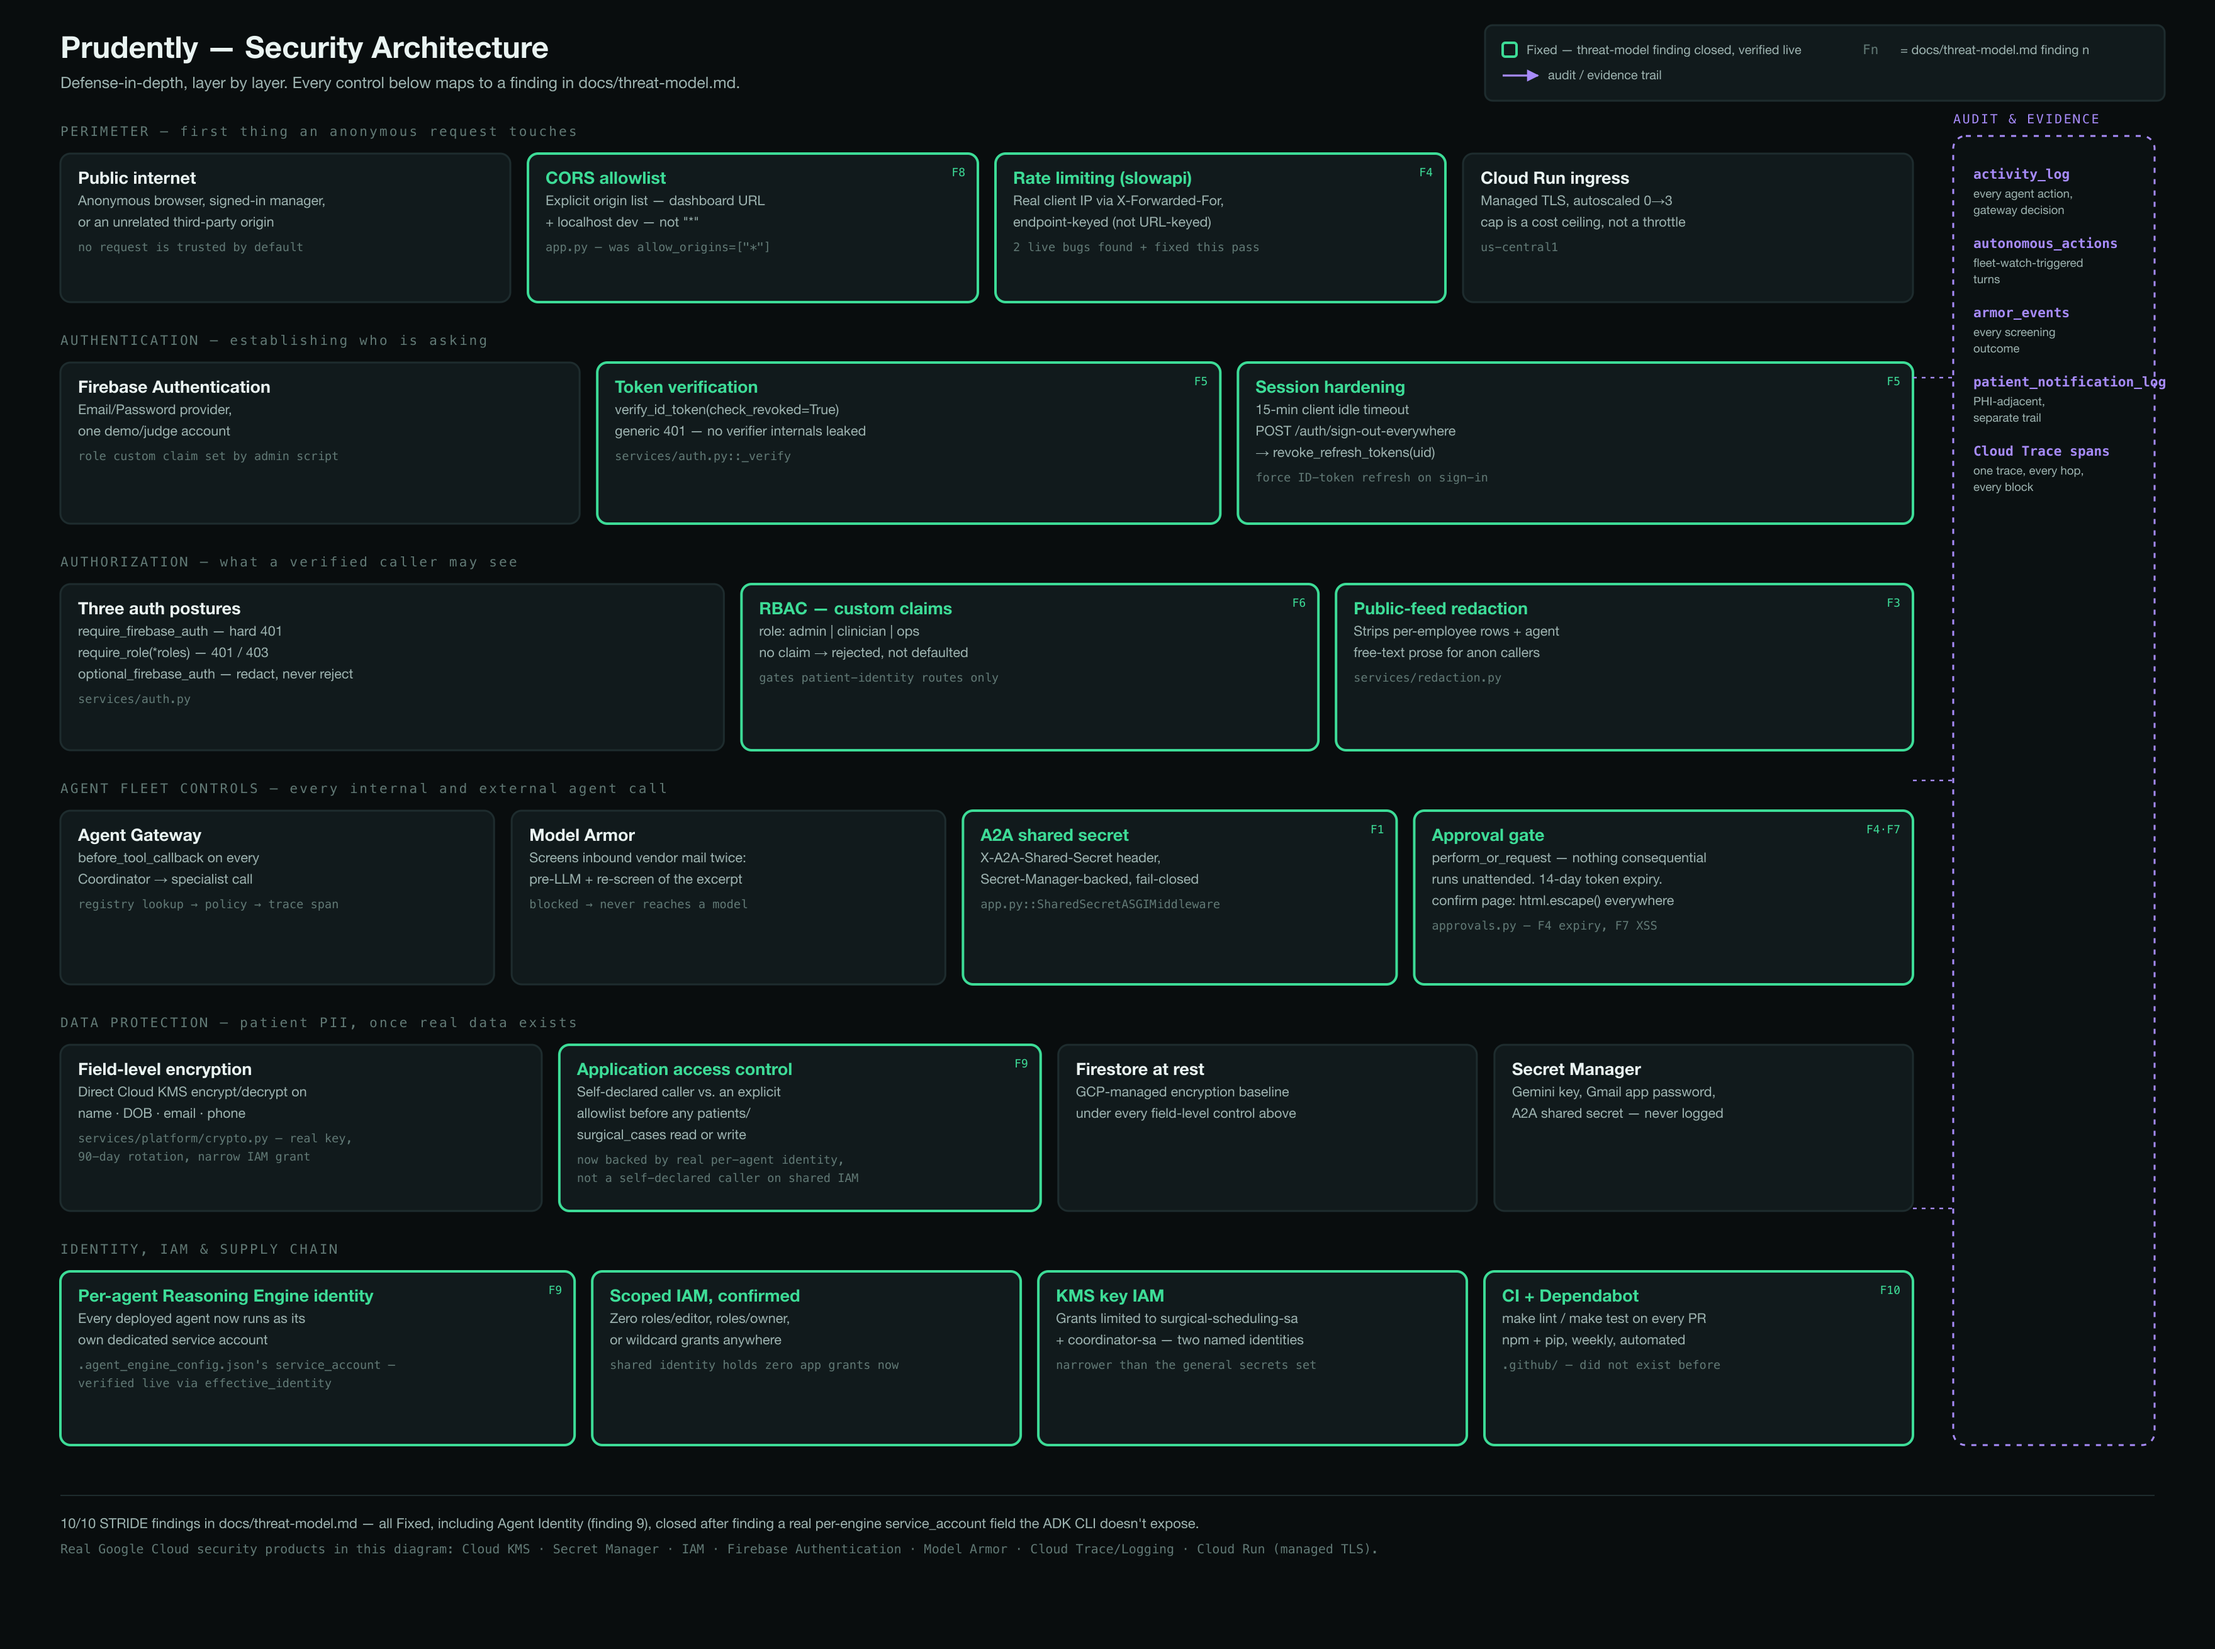
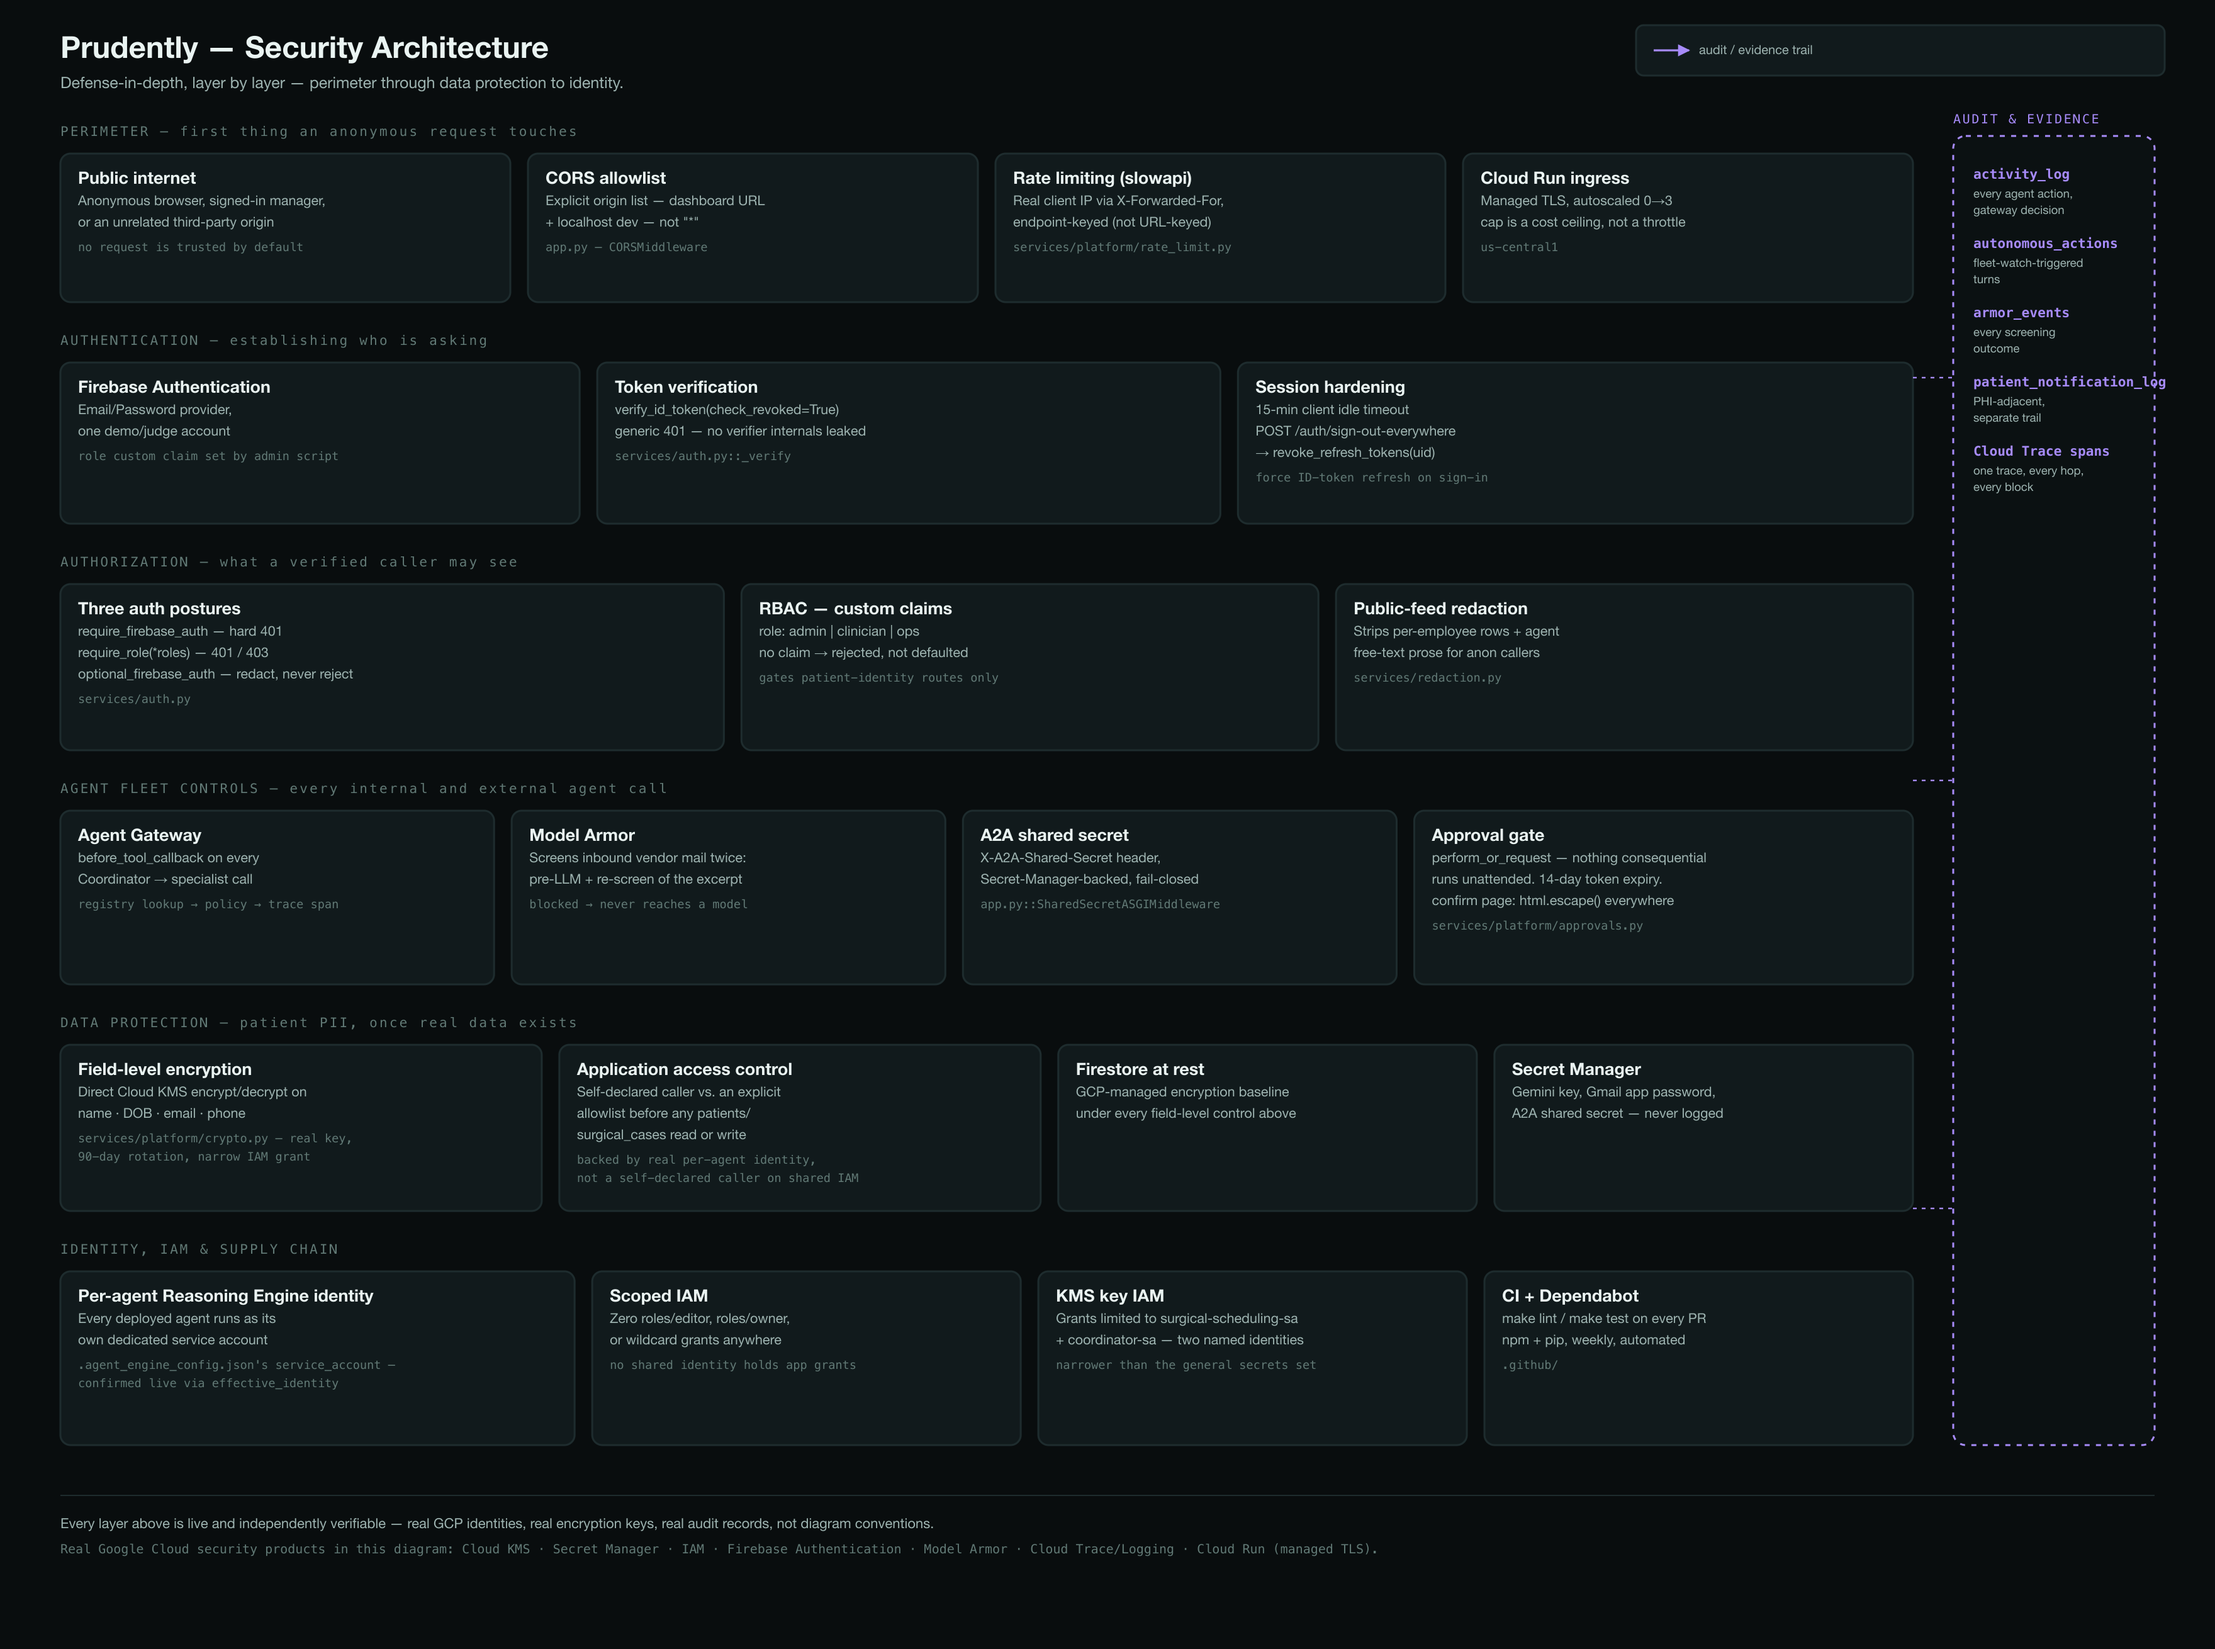
Remove the standalone threat-model doc; de-status the security diagram
Every diagram (and every doc that linked to it) drops the
"Fixed"/"Mitigated"/"Accepted" framing that was built around the
now-removed document.

The security architecture diagram loses the per-card status badges,
the legend entries explaining them, the per-card accent borders that
existed only to encode status, and the closing findings-count line.
Cards read as a plain inventory of what each control is and does now
— the same visual language as the other two diagrams, neither of which
ever used status coloring. The main architecture diagram's one
remaining reference (a disclosure line citing a specific finding
number) is reworded to state the underlying fact directly — every
engine runs under its own identity — without citing a file that no
longer exists.

The README and other docs had their direct mentions and links to the
removed file taken out the same way: every surrounding factual claim
stays (encryption, RBAC, per-agent identity, KMS grants scoped to two
service accounts) — only the citation to the deleted file is gone, not
the substance it was citing.

Also swept two stray, gitignored temp folders left over from earlier
deploy retries.

diff --git a/README.md b/README.md
@@ -12,8 +12,8 @@ it left it, and wakes the responsible agent the moment something crosses a line.
 real-world consequence still comes back to a human for approval. The one domain here with
 real-PII-shaped data — a patient's name, date of birth, contact details — is encrypted
 field-by-field with Cloud KMS before it ever reaches Firestore, gated behind role-based access
-control, and backed by a real, cited threat model that maps every finding to the fix that closed
-it (`docs/threat-model.md`).
+control, with every deployed agent running under its own dedicated identity rather than a
+shared one.
 
 **Live:**
 [dashboard](https://prudently-web-jnpvbtwpwa-uc.a.run.app) ·
@@ -23,11 +23,6 @@ it (`docs/threat-model.md`).
 [topology](docs/architecture.svg) ·
 [security](docs/security-architecture.png) ·
 [deployment](docs/deployment-architecture.png)
-
-**Security:** [`docs/threat-model.md`](docs/threat-model.md) — ten STRIDE findings, each with
-file:line evidence, each fixed or honestly mitigated. Includes the story behind Agent Identity:
-a documented "platform limitation" that turned out to be a wrong assumption about the `adk`
-CLI, not the underlying API.
 
 ---
 
@@ -51,7 +46,7 @@ CLI, not the underlying API.
 - `apps/web` — Next.js dashboard
 - `packages/datagen` — synthetic hospital data generator plus one-off backfill scripts
 - `infra/terraform` — GCP infrastructure as code (IAM, secrets, KMS, Cloud Run service shells)
-- `docs` — architecture, threat model, build plan and demo script, Day-1 capability probe results
+- `docs` — architecture, build plan and demo script, Day-1 capability probe results
 
 ---
 
@@ -74,7 +69,7 @@ you get if you miss one.
 
 | Step | How | If you skip it |
 |---|---|---|
-| **Enable APIs** | `gcloud services enable aiplatform.googleapis.com firestore.googleapis.com run.googleapis.com secretmanager.googleapis.com cloudtrace.googleapis.com logging.googleapis.com modelarmor.googleapis.com pubsub.googleapis.com cloudkms.googleapis.com identitytoolkit.googleapis.com` | Deploys fail at the first API call; `identitytoolkit` specifically breaks session revocation checking with a silently-swallowed 401 on every authenticated route — see `docs/threat-model.md` finding 5 |
+| **Enable APIs** | `gcloud services enable aiplatform.googleapis.com firestore.googleapis.com run.googleapis.com secretmanager.googleapis.com cloudtrace.googleapis.com logging.googleapis.com modelarmor.googleapis.com pubsub.googleapis.com cloudkms.googleapis.com identitytoolkit.googleapis.com` | Deploys fail at the first API call; `identitytoolkit` specifically breaks session revocation checking with a silently-swallowed 401 on every authenticated route |
 | **Gemini API key** | `gcloud secrets create prudently-gemini-api-key --data-file=-` (paste the key, Ctrl-D) | Every agent fails on its first model call |
 | **Model Armor template** | Create a template named `prudently-vendor-ingest` in `us-central1` with the `pi_and_jailbreak`, `malicious_uri`, and `rai` filters. **Use the REST API or the Python SDK, not `gcloud model-armor`** — that subcommand returns spurious `PERMISSION_DENIED` even under project Owner. | Screening fails closed; every vendor message is reported blocked |
 | **Firebase Auth** | In the Firebase Console, attach a Firebase project to this GCP project, enable the Email/Password provider, and create one manager account. Put the web config in `apps/web/.env.local`. | The dashboard shows a login form nobody can get past |
@@ -218,9 +213,8 @@ Honest ones, because they are the interesting part:
   backed by a real distinct credential per caller instead of a self-declared one on shared IAM.
 - **Registry and Gateway are built on ADK primitives**, not distinct Google Cloud products —
   because the Day-1 probe found no such products. Agent Identity used to be on this list too;
-  it isn't anymore — see `docs/threat-model.md` finding 9 for exactly what changed and how it
-  was verified. [`docs/day1-probe-results.md`](docs/day1-probe-results.md) records the original
-  Day-1 findings.
+  it isn't anymore, now that every deployed engine runs under its own dedicated service account.
+  [`docs/day1-probe-results.md`](docs/day1-probe-results.md) records the original Day-1 findings.
 - **The autonomous watch runs agents in-process**, not through the Agent Engine transport. That
   is deliberate: `stream_query` against a deployed engine reset mid-stream on 3 of 4 attempts
   from a laptop, and the manager-initiated path already exercises that transport. The deployed

diff --git a/docs/architecture.md b/docs/architecture.md
@@ -5,7 +5,7 @@
 `architecture.svg` is the source of truth; `architecture.png` is a raster of the same file for
 the Devpost submission form. Both are also served by the dashboard at `/architecture.svg`. Two
 companion diagrams go deeper on one layer each: [`security-architecture.png`](./security-architecture.png)
-(every control, mapped to a `threat-model.md` finding) and
+(every control, perimeter through identity) and
 [`deployment-architecture.png`](./deployment-architecture.png) (every deployed component and
 real connection between them, including the one genuine Agent2Agent network hop).
 
@@ -22,9 +22,9 @@ One specialist, Supply Chain, reaches a seventh agent — the **Medical Represen
 a real trust boundary over Agent2Agent, at the same public agent-card URL any outside client
 would use. That agent exists to handle untrusted vendor mail, and **Model Armor** screens
 everything it receives before a model sees any of it. Nothing with a real-world consequence
-happens without the manager clicking approve in their inbox — and as of this pass, every one of
-those approval-gated, RBAC-gated, and encryption-gated routes is backed by a real, cited threat
-model (`docs/threat-model.md`, ten STRIDE findings, all fixed or honestly mitigated).
+happens without the manager clicking approve in their inbox, and every one of those
+approval-gated, RBAC-gated, and encryption-gated routes runs on real, verifiable infrastructure —
+real GCP identities, real encryption keys, real audit records, not diagram conventions.
 
 ## What runs where
 
@@ -64,9 +64,7 @@ live for each, not assumed from a Terraform diff. This closed the one Fortified 
 Fleet capability this project had been honestly documenting as unenforced: `adk deploy`'s CLI
 has no `--service_account` flag, which earlier notes here took as a hard platform limit, but
 the underlying `AgentEngineConfig` API it calls does — reachable through the same
-`.agent_engine_config.json` mechanism the CLI already reads per agent folder. See
-`docs/threat-model.md` finding 9 for the full story, including two real regressions it caught
-before shipping (Model Armor and Cloud Trace grants that only the old shared identity had).
+`.agent_engine_config.json` mechanism the CLI already reads per agent folder.
 
 ## Where the data lives
 
@@ -90,6 +88,5 @@ before shipping (Model Armor and Cloud Trace grants that only the old shared ide
 Model Armor template. Firestore's location is immutable after creation, so this was decided
 once and has not moved since. See [`day1-probe-results.md`](./day1-probe-results.md) for which
 of the seven Fortified Enterprise Fleet capabilities were originally backed by a real, distinct
-Google Cloud product and which were built on ADK primitives, and
-[`threat-model.md`](./threat-model.md) for the security posture and the fix that moved Agent
-Identity from the second category into the first.
+Google Cloud product and which were built on ADK primitives — Agent Identity has since moved
+from the second category into the first.

diff --git a/AGENTS.md b/AGENTS.md
@@ -1353,3 +1353,23 @@ per-agent identity, not a self-declared caller on shared IAM." No Cloud Run rede
 — `prudently-api`'s own runtime identity was already `coordinator-agent-sa` via `modules/
 cloud_run_api/main.tf`, untouched by this change; only the 8 Reasoning Engine deploys and two
 Terraform applies (IAM/KMS grants, then Secret Manager grants) were required.
+
+## `docs/threat-model.md` removed; diagrams de-statused (Aug 24)
+
+User-directed. `docs/threat-model.md` — referenced extensively in the dated entries above, where
+it was current — is deleted. Every entry above stays as written, since this file is a dated
+journal of what was true at the time, not a rewritten one; a `docs/threat-model.md` reference in
+an entry above documents that the file existed and said that when the entry was written, not that
+it exists now. **A session reading those entries should not expect the file to be there.**
+
+`docs/security-architecture.svg`/`.png` — built entirely around per-finding "Fixed"/"Mitigated"/
+"Accepted" badges citing that file — lost the badges, the legend entries for them, and the
+closing "10/10 STRIDE findings" line, along with every remaining per-card `SAFE`/`ELEVATED`/
+`CRITICAL` accent border that existed only to encode that status. Cards now read as a plain
+inventory of what each control is and does, styled like `deployment-architecture.svg` and
+`architecture.svg` (no status coloring, ever). `docs/architecture.svg`'s own single reference
+(a disclosure line citing "finding 9") was reworded to state the fact — every engine has its own
+identity — without citing a file. README, `docs/architecture.md`, and `docs/devpost-writeup.md`
+had their direct mentions/links removed the same way, keeping every surrounding factual claim
+(ten controls existing, Agent Identity being real, KMS grants being scoped to two identities) —
+only the citation to the now-deleted file is gone, not the substance it was citing.
